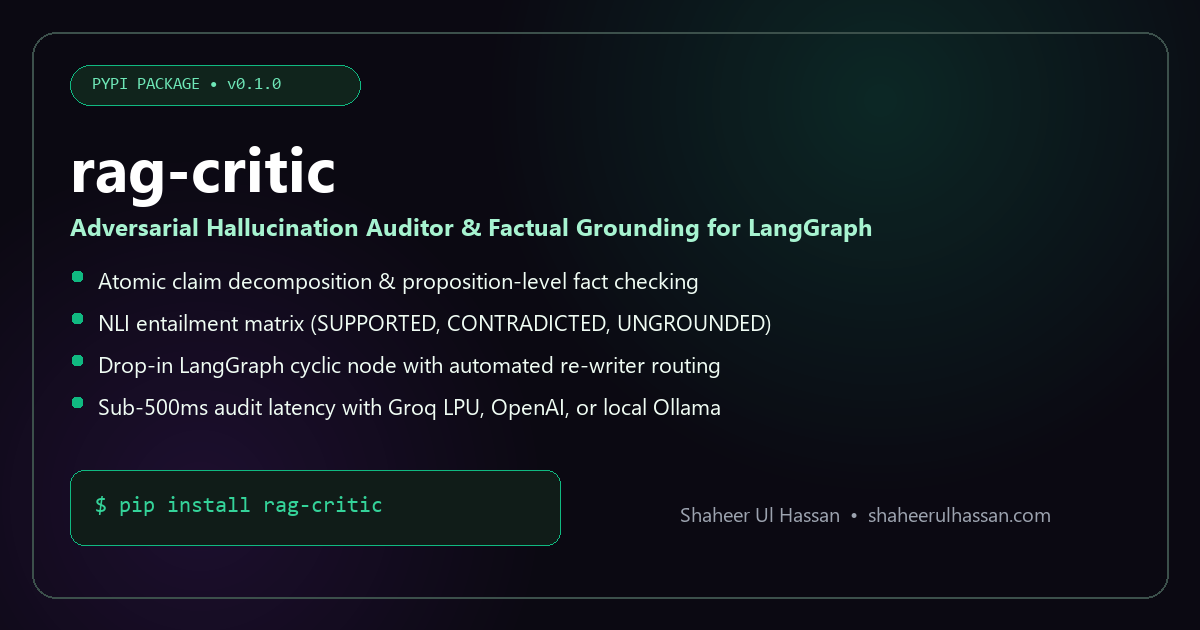
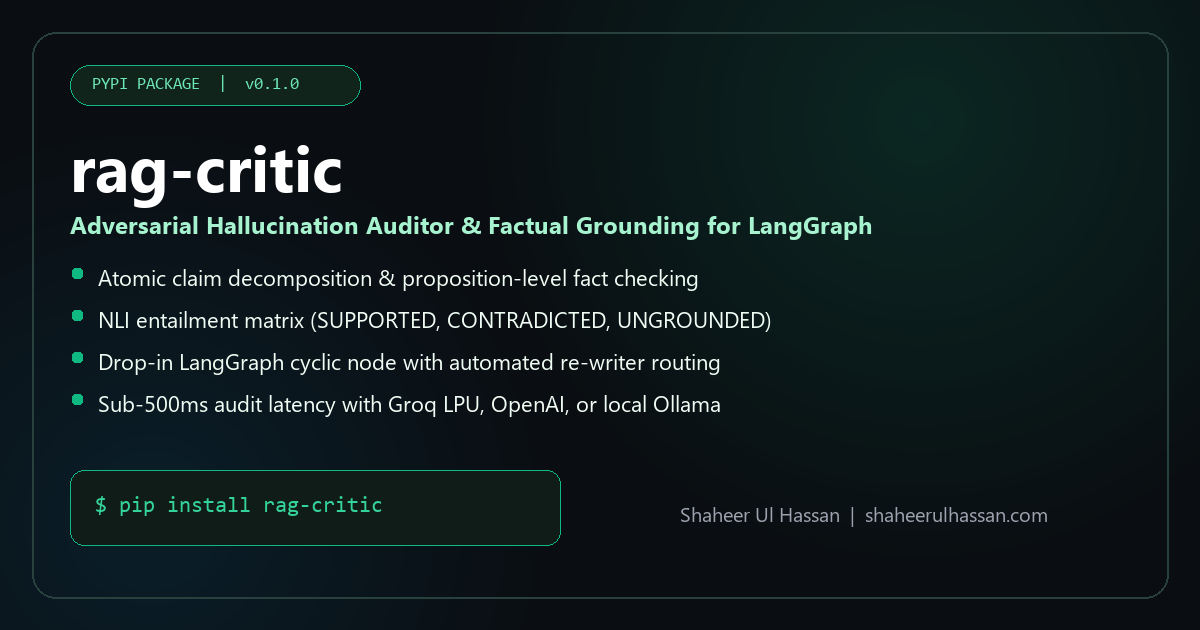
docs: add GitHub stars badge and community support callout to README

diff --git a/README.md b/README.md
@@ -2,10 +2,15 @@
 
 [![PyPI version](https://img.shields.io/pypi/v/rag-critic.svg?color=blue)](https://pypi.org/project/rag-critic/)
 [![Python versions](https://img.shields.io/pypi/pyversions/rag-critic.svg)](https://pypi.org/project/rag-critic/)
+[![Downloads](https://img.shields.io/pypi/dm/rag-critic.svg?color=emerald)](https://pypistats.org/packages/rag-critic)
 [![License: MIT](https://img.shields.io/badge/License-MIT-purple.svg)](https://opensource.org/licenses/MIT)
-[![Downloads](https://img.shields.io/pypi/dm/rag-critic.svg)](https://pypistats.org/packages/rag-critic)
+[![Author](https://img.shields.io/badge/Author-Shaheer%20Ul%20Hassan-8F63DD)](https://shaheerulhassan.com/)
+[![GitHub stars](https://img.shields.io/github/stars/samjanjua6/rag-critic?style=social)](https://github.com/samjanjua6/rag-critic)
 
 > **Lightweight adversarial hallucination auditor and citation grounding engine for LangGraph and production RAG pipelines.**
+
+> [!TIP]
+> **Support Open-Source**: If you find `rag-critic` useful in your RAG pipelines or LangGraph evaluation loops, please consider giving it a ⭐ on GitHub — it helps other engineers discover it!
 
 Stop deploying unchecked RAG applications. `rag-critic` provides an adversarial verification loop that decomposes LLM draft answers into atomic factual claims, checks them against retrieved source passages, computes continuous grounding scores, and outputs actionable revision instructions for re-writer agents.
 
